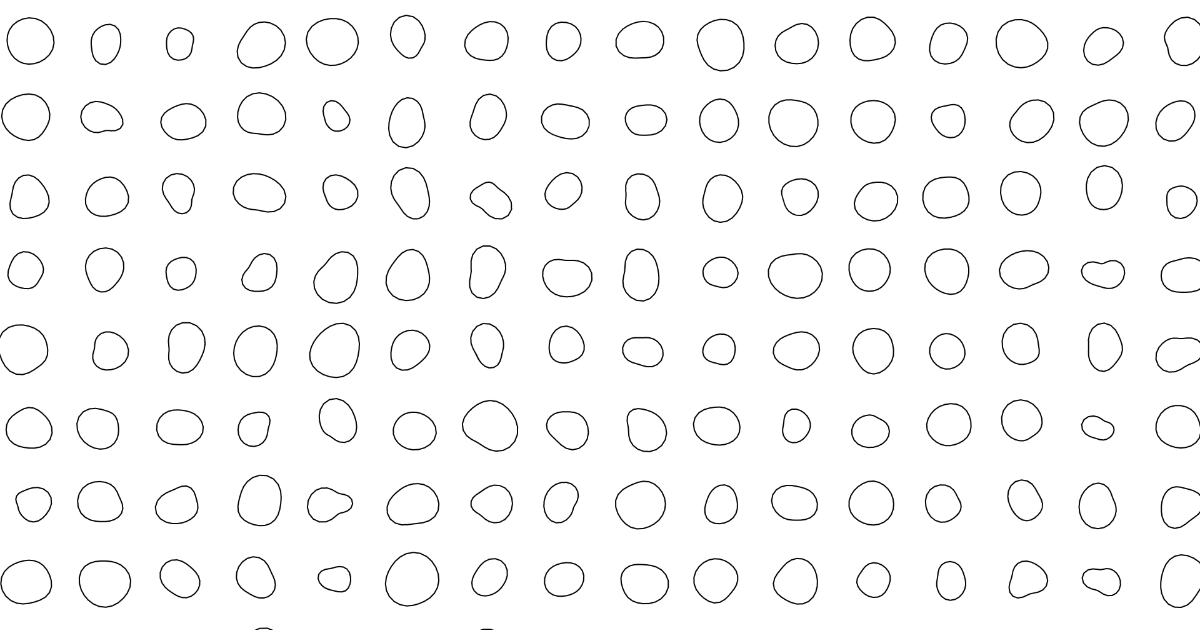
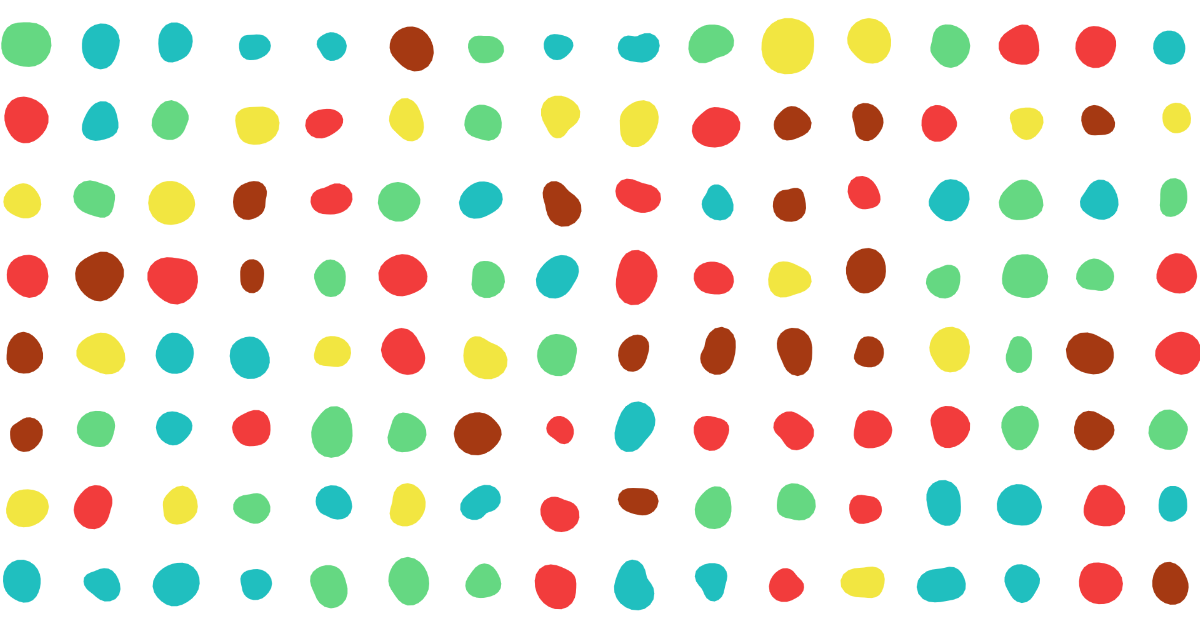
add colour to tickle

diff --git a/tickle/sketch.js b/tickle/sketch.js
@@ -10,51 +10,123 @@
 let simplex;
 let scl, rows, cols;
 let inc = 1;
+let palette, colours, paletteIndex = 0;
+let sequenceSeed;
+let mouseFlag = false;
 
 function setup() {
-  let canvas = createCanvas(windowWidth, windowHeight);
+  let canvas = createCanvas(window.innerWidth, window.innerHeight);
   canvas.parent('sketch-holder');
+
+
   simplex = new openSimplexNoise();
-   scl = width / 25;
-   rows = floor(height / scl);
-   cols = floor(width / scl);
+  scl = width / 25;
+  rows = floor(height / scl);
+  cols = floor(width / scl);
+
+  // Select a palette
+  setPalette();
+  colours = palette[paletteIndex]
+
+  randomSeed(second());
+  sequenceSeed = random();
+
 }
 
 function draw() {
   let ofs = 0;
   background(255);
-  translate(scl/2, scl/2);
-  for (let i = 0; i < cols; i++){
-    for (let j = 0; j <= rows; j++){
-      mouseXnorm = mouseX/width;
-      mouseYnorm = mouseY/height
-      drawShape(i*scl, j*scl, mouseXnorm, mouseYnorm);
+  translate(scl / 2, scl / 2);
+  randomSeed(sequenceSeed); // Re-seed the random sequence - this drives our colour selector and we want constant, random colours
+  for (let i = 0; i < cols; i++) {
+    for (let j = 0; j <= rows; j++) {
+      mouseXnorm = mouseX / width;
+      mouseYnorm = mouseY / height;
+
+      fill(random(colours));
+      noStroke();
+      drawShape(i * scl, j * scl, mouseXnorm, mouseYnorm);
     }
   }
-
-
 }
 
 function drawShape(_x, _y, _xofs, _yofs) {
   beginShape();
   let numPoints = 25;
-  let r = scl/2;
-  // decouple noise axes by large distance - prevents regular artefacts appearing
-  let xOfs = 10*_x+_xofs; // precalculate for later
-  let yOfs = 10000*_y+_yofs;
-  for (theta = 0; theta < TWO_PI; theta += (TWO_PI / numPoints) ) {
+  let r = scl / 2;
+  // decouple noise axes by large distance between shapes - prevents regular artefacts appearing
+  let xOfs = 100 * _x + _xofs; // precalculate outside the for-loop
+  let yOfs = 10000 * _y + _yofs;
+
+  for (theta = 0; theta < TWO_PI; theta += (TWO_PI / numPoints)) {
     let cosTheta = cos(theta); // precalculate for later
     let sinTheta = sin(theta);
     // use the unit circle (x,y) points as inputs for the noise function
-    let x = 0.5 * cosTheta+1;
-    let y = 0.5 * sinTheta+1;
+    let x = 0.5 * cosTheta + 1;
+    let y = 0.5 * sinTheta + 1;
 
     // Add noise
-    let radius = r * (1 + simplex.noise4D(x , y, xOfs, yOfs))/2;
+    let radius = r * (1 + simplex.noise4D(x, y, xOfs, yOfs)) / 2;
     let xn = radius * cosTheta;
     let yn = radius * sinTheta;
 
-    vertex(xn + _x , yn + _y);
+    vertex(xn + _x, yn + _y);
   }
   endShape(CLOSE);
+}
+
+
+// Populates an array with several pallettes that can be selected by the script.
+setPalette = function() {
+  palette = new Array();
+
+  /* Rivendell */
+  palette.push([color(32, 191, 191),
+    color(101, 216, 130),
+    color(242, 230, 65),
+    color(165, 57, 18),
+    color(242, 60, 60),
+  ]);
+
+  // generate pallete
+  palette.push([color(255, 249, 186),
+    color(177, 130, 146),
+    color(255, 212, 226),
+    color(149, 192, 204),
+    color(140, 170, 177)
+  ]);
+
+  palette.push([color(116, 191, 255),
+    color(255, 154, 191),
+    color(234, 211, 126),
+    color(166, 216, 195),
+    color(234, 231, 231)
+  ]);
+
+  palette.push([color(242, 67, 99),
+    color(242, 220, 236),
+    color(242, 216, 140),
+    color(242, 185, 79),
+    color(242, 124, 113)
+  ]);
+
+  /* pink acrylic paints */
+  palette.push([color(242, 186, 201),
+    color(216, 4, 82),
+    color(165, 3, 62),
+    color(242, 99, 151),
+    color(242, 242, 242),
+  ]);
+
+}
+
+function cyclePalette() {
+  // Cycle through palettes
+  if (++paletteIndex > palette.length - 1) paletteIndex = 0;
+  colours = palette[paletteIndex];
+  sequenceSeed = second(); // otherwise, for a given blob, the colour INDEX will still be the same ie. constant patterns
+}
+
+function mousePressed() {
+  cyclePalette();
 }

diff --git a/tickle/index.html b/tickle/index.html
@@ -6,9 +6,9 @@
     <meta name="viewport" content="width=device-width, initial-scale=1.0">
 
     <meta property="og:title" content="tickle">
-    <meta property="og:description" content="Generative code art by Michael Ruppe.">
+    <meta property="og:description" content="Interactive code art by Michael Ruppe.">
     <meta property="og:image" content="http://michaelruppe.com/Project-Laura/tickle/screenshot.png">
-    <meta property="og:url" content="http://michaelruppe.com/Project-Laura/ticle/">
+    <meta property="og:url" content="http://michaelruppe.com/Project-Laura/tickle/">
 
     <style> body {padding: 0; margin: 0;} </style>
     <script src="https://cdn.jsdelivr.net/npm/p5@0.10.2/lib/p5.min.js"></script>
